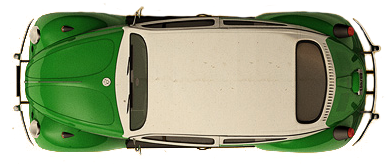
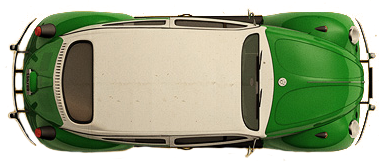
car graphics added

diff --git a/css/style.css b/css/style.css
@@ -15,20 +15,30 @@ h1 {
   width: 100%;
   height: 100px;
 }
+.topbox h1 {
+  text-align: center;
+}
+.topbox p {
+  text-align: center;
+}
+
 .gameoveryouwon {
   width: 500px;
   height: 400px;
   background-color: rgb(0,255,0);
-  margin: 0px;
+  /*margin: 0px;*/
+  margin: 0 auto;
   display: none;
   color: white;
   z-index: -1;
 }
+
 .gameoverfelloff {
   width: 500px;
   height: 400px;
   background-color: rgb(100,80,0);
-  margin: 0px;
+  /*margin: 0px;*/
+  margin: 0 auto;
   display: none;
   color: black;
   z-index: -1;
@@ -37,16 +47,27 @@ h1 {
 .gameoverhit {
   width: 500px;
   height: 400px;
-  background-color: rgb(255,0,0);
-  margin: 0px;
+  /*background-color: rgb(255,0,0);*/
+  background-image: url("../images/gameoverhit.jpg");
+  background-size: cover;
+  background-repeat: no-repeat;
+  margin: 0 auto;
   display: none;
-  color: black;
   z-index: -1;
-  position: absolute;
+  /*position: absolute;*/
+  position: relative;
 }
+
+.gameoverhit p {
+  color: rgb(243,12,26);
+  text-align: center;
+  font-size:32px;
+}
+
 .board {
   width: 500px;
   height: 500px;
+  /*position: absolute;*/
   position: relative;
   background-color: grey;
   margin: 0 auto;
@@ -75,7 +96,9 @@ h1 {
 .car {
   width: 230px;
   height: 100px;
-  background-color: black;
+  /*background-color: black;*/
+  background-size: cover;
+  background-repeat: no-repeat;
   position: absolute;
   margin: 0px;
   /*padding: 0px;*/
@@ -84,7 +107,10 @@ h1 {
 #cartopR {
   /*width: 100px;
   height: 100px;*/
-  background-color: blue;                     
+  /*background-color: blue;*/
+  /*background-image: url("../images/blackcab.png");*/
+  /*background-size: cover;*/
+  /*background-repeat: no-repeat;*/
   /*position: absolute; */
   top: 130px;
   left: 600px;

diff --git a/main.js b/main.js
@@ -57,10 +57,16 @@ $(function() {
 
   // If the car is a right starting car then give it the properties
   // of a right car.  
-      $( ".car[id*='topR']").css({'background-color': 'blue',
+      // $( ".car[id*='topR']").css({'background-color': 'blue',
+      //                           'top': '130px',
+      //                           'left': '600px'});
+      // $( ".car[id*='bottomR']").css({'background-color': 'gold',
+      //                           'top': '130px',
+      //                           'left': '600px'});
+      $( ".car[id*='topR']").css({'background-image': 'url("./images/blackcab.png")',
                                 'top': '130px',
                                 'left': '600px'});
-      $( ".car[id*='bottomR']").css({'background-color': 'gold',
+      $( ".car[id*='bottomR']").css({'background-image': 'url("./images/bluecar.png")',
                                 'top': '130px',
                                 'left': '600px'});
       
@@ -70,7 +76,7 @@ $(function() {
       // If the car is a Left starting car then give it the properties
       // of a left car. 
 
-      $( ".car[id*='bottomL']").css({'background-color': 'green',
+      $( ".car[id*='bottomL']").css({'background-image': 'url("./images/greencar.png")',
                                 'top': '320px',
                                 'left': '-300px'});
       $( ".car[id*='topL']").css({'background-color': 'violet',

diff --git a/index.html b/index.html
@@ -9,7 +9,8 @@
 <body>
   <div class="topbox">
     <h1>Bike London</h1>
-    <p>Keep pressing z and x keys to pedal</p>
+    <p>Keep pressing z and x keys to pedal and keep your balance</p>
+    <p>Avoid the cars</p> 
   </div>
   <div class="gameoverhit">
     <p>Game over you got squashed Carface!</p>
